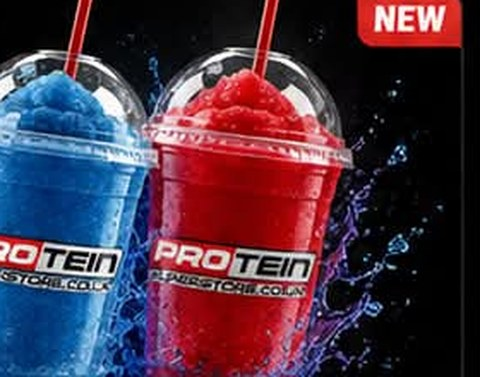
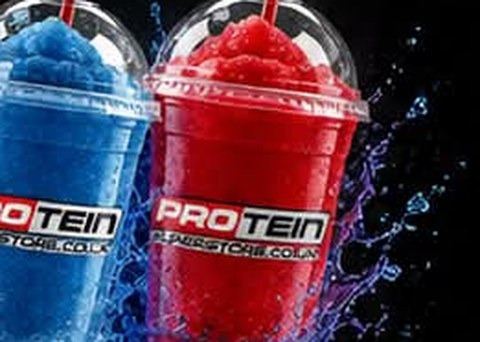
fix: page container sized itself to its content, not the screen
The right edge was clipped and pinch-to-zoom did nothing because
.lp-shell-body was 387px wide inside a 375px phone - and the same 387px at
every screen size, which was the clue.

Cause: I centred it with margin:0 auto. An auto margin on a flex item's cross
axis switches OFF the default stretch, so instead of matching the screen it
sized itself to its content - and the widest content is the horizontally
scrolling product rail. width:100% gives it a definite size again; min-width:0
stops the rail imposing a content-based minimum on it or on .lp-shell-main.

Also fixed, all found by rendering the page rather than reading the CSS:
- the bug report button sat on top of the ACCOUNT tab. Lifted above the nav.
- the promo drew a NEW badge over the one already in the artwork, and the
  crop clipped the mockup's own flash. Re-cropped, badge removed.
- a product photo that fails to load left a broken-image icon in the client's
  app. It now falls back to the type tile.
- long product names pushed cards to three lines. Clamped to two.

Adds layout.test.mjs: loads the real page in headless Chromium at 360, 375 and
768 with the backend stubbed, and measures. Nine checks per width - overflow,
container width, tile row, 44px controls, promo, rail, and the bug button.

It also caught a false pass in itself: the bug button check was querying a
class that does not exist, so it reported green while the button covered the
nav. A missing element now fails.
[…]

diff --git a/staff.html b/staff.html
@@ -5,17 +5,17 @@
 <meta name="viewport" content="width=device-width, initial-scale=1, viewport-fit=cover">
 <title>Protein Superstore — Staff</title>
 <meta name="theme-color" content="#E4181F">
-<link rel="stylesheet" href="./core/tokens.css?v=1.2.1">
-<link rel="stylesheet" href="./core/ui.css?v=1.2.1">
-<link rel="stylesheet" href="./features/bug-report/bug-report.css?v=1.2.1">
-<link rel="stylesheet" href="./css/psp.css?v=1.2.1">
-<link rel="stylesheet" href="./css/staff.css?v=1.2.1">
+<link rel="stylesheet" href="./core/tokens.css?v=1.3.0">
+<link rel="stylesheet" href="./core/ui.css?v=1.3.0">
+<link rel="stylesheet" href="./features/bug-report/bug-report.css?v=1.3.0">
+<link rel="stylesheet" href="./css/psp.css?v=1.3.0">
+<link rel="stylesheet" href="./css/staff.css?v=1.3.0">
 <link href="https://fonts.googleapis.com/css2?family=Archivo:ital,wght@0,400;0,600;0,700;1,900&display=swap" rel="stylesheet">
 </head>
 <body class="staff">
 
 <header class="st-top">
-  <img class="psp-logo" src="./assets/logo.jpg?v=1.2.1" alt="Protein Superstore">
+  <img class="psp-logo" src="./assets/logo.jpg?v=1.3.0" alt="Protein Superstore">
   <span class="st-store" id="stStore">Hartlepool</span>
   <button class="st-bell" id="stBell" aria-label="Turn on order alerts">🔔</button>
 </header>
@@ -41,13 +41,13 @@
 </main>
 
 <script type="module">
-import { configure, db } from './core/db.js?v=1.2.1';
-import { toast } from './core/toast.js?v=1.2.1';
-import { BugReport } from './features/bug-report/bug-report.js?v=1.2.1';
-import { CONFIG } from './js/config.js?v=1.2.1';
-import { Loyalty } from './features/loyalty/loyalty.js?v=1.2.1';
+import { configure, db } from './core/db.js?v=1.3.0';
+import { toast } from './core/toast.js?v=1.3.0';
+import { BugReport } from './features/bug-report/bug-report.js?v=1.3.0';
+import { CONFIG } from './js/config.js?v=1.3.0';
+import { Loyalty } from './features/loyalty/loyalty.js?v=1.3.0';
 import { work, minutesWaiting, newSince, summarise, readyPatch, collectedPatch,
-         forStaff, isUnpaid, amountDue, pointsOnCollection } from './js/staff.js?v=1.2.1';
+         forStaff, isUnpaid, amountDue, pointsOnCollection } from './js/staff.js?v=1.3.0';
 
 const loyalty = new Loyalty({ mount: document.createElement('div'),
   venue: CONFIG.venue, brandName: CONFIG.brandName });

diff --git a/index.html b/index.html
@@ -10,19 +10,19 @@
 <link rel="apple-touch-icon" href="./icon-192.png">
 
 <!-- Launchpad modules: tokens first, then each feature's own stylesheet -->
-<link rel="stylesheet" href="./core/tokens.css?v=1.2.1">
-<link rel="stylesheet" href="./core/ui.css?v=1.2.1">
-<link rel="stylesheet" href="./features/shell/shell.css?v=1.2.1">
-<link rel="stylesheet" href="./features/menu/menu.css?v=1.2.1">
-<link rel="stylesheet" href="./features/cart/cart.css?v=1.2.1">
-<link rel="stylesheet" href="./features/loyalty/loyalty.css?v=1.2.1">
-<link rel="stylesheet" href="./features/payment/payment.css?v=1.2.1">
-<link rel="stylesheet" href="./features/customer-capture/customer-capture.css?v=1.2.1">
-<link rel="stylesheet" href="./features/order-ready/order-ready.css?v=1.2.1">
-<link rel="stylesheet" href="./features/bug-report/bug-report.css?v=1.2.1">
+<link rel="stylesheet" href="./core/tokens.css?v=1.3.0">
+<link rel="stylesheet" href="./core/ui.css?v=1.3.0">
+<link rel="stylesheet" href="./features/shell/shell.css?v=1.3.0">
+<link rel="stylesheet" href="./features/menu/menu.css?v=1.3.0">
+<link rel="stylesheet" href="./features/cart/cart.css?v=1.3.0">
+<link rel="stylesheet" href="./features/loyalty/loyalty.css?v=1.3.0">
+<link rel="stylesheet" href="./features/payment/payment.css?v=1.3.0">
+<link rel="stylesheet" href="./features/customer-capture/customer-capture.css?v=1.3.0">
+<link rel="stylesheet" href="./features/order-ready/order-ready.css?v=1.3.0">
+<link rel="stylesheet" href="./features/bug-report/bug-report.css?v=1.3.0">
 <!-- Client skin: overrides --brand only, per the build standard -->
-<link rel="stylesheet" href="./css/psp.css?v=1.2.1">
-<link rel="stylesheet" href="./css/psp-screens.css?v=1.2.1">
+<link rel="stylesheet" href="./css/psp.css?v=1.3.0">
+<link rel="stylesheet" href="./css/psp-screens.css?v=1.3.0">
 
 <link rel="preconnect" href="https://fonts.googleapis.com">
 <link rel="preconnect" href="https://fonts.gstatic.com" crossorigin>
@@ -37,6 +37,6 @@
 
 <div id="app" hidden></div>
 
-<script type="module" src="./js/app.js?v=1.2.1"></script>
+<script type="module" src="./js/app.js?v=1.3.0"></script>
 </body>
 </html>

diff --git a/css/psp.css b/css/psp.css
@@ -61,7 +61,20 @@ input,select,textarea{ font-size:16px; font-family:var(--font-body); }
 .lp-shell-bi{ color:var(--text-2); }
 .lp-shell-bi.on,.lp-shell-ni.on{ color:var(--brand); }
 .lp-shell-bi-label{ font-size:11px; letter-spacing:.5px; text-transform:uppercase; }
-.lp-shell-body{ padding:14px; max-width:900px; margin:0 auto; }
+/* This container is a flex item, and I centred it with `margin:0 auto`.
+   An auto margin on the cross axis switches OFF the default stretch, so
+   instead of matching the screen the element sized itself to its content —
+   and the widest content is the horizontally-scrolling product rail. It came
+   out 387px wide on a 375px phone, at every screen size, which is why the
+   right edge was clipped and pinch-to-zoom did nothing.
+
+   `width:100%` gives it a definite size again; the max-width still centres it
+   on a desktop. `min-width:0` stops the same rail imposing a content-based
+   minimum. */
+.lp-shell-body{
+  padding:14px; width:100%; max-width:900px; margin:0 auto; min-width:0;
+}
+.lp-shell-main{ min-width:0; }
 
 /* ---------- shared type ---------- */
 .psp-h2{
@@ -93,7 +106,16 @@ img{ max-width:100%; }
 /* ---------- module chrome in brand colours ---------- */
 .lp-ly-card,.lp-ly-look{ background:var(--surface); border:1px solid var(--border); }
 .lp-pay-demo{ border-color:var(--brand); }
-.lp-bug-btn{ background:var(--brand); }
+/* The module parks this bottom-right, which on a phone lands squarely on the
+   ACCOUNT tab. Lift it above the nav. */
+/* The module parks this bottom-right, which on a phone lands squarely on the
+   ACCOUNT tab. Lift it clear of the bottom nav. */
+.lp-bug-fab{ bottom:calc(84px + env(safe-area-inset-bottom)) !important; }
+@media (min-width:768px){
+  .lp-bug-fab{ bottom:20px !important; }
+}
+/* The staff view has no bottom nav, so it can sit where the module puts it. */
+body.staff .lp-bug-fab{ bottom:20px !important; }
 
 @media (min-width:768px){
   .lp-shell-body{ padding:24px; }

diff --git a/css/psp-screens.css b/css/psp-screens.css
@@ -62,6 +62,7 @@
 .psp-rowhead{ display:flex; align-items:center; justify-content:space-between; }
 .psp-rail{
   display:flex; align-items:stretch; gap:10px; overflow-x:auto; padding-bottom:6px;
+  min-width:0; max-width:100%;
   scroll-snap-type:x mandatory; -webkit-overflow-scrolling:touch;
 }
 .psp-railcard{ flex:0 0 46%; min-width:0; scroll-snap-align:start; }
@@ -87,9 +88,15 @@
   border-left:3px solid var(--brand);
 }
 .psp-typetile-brand{ font-size:9px; font-weight:800; letter-spacing:1.4px; color:var(--brand); }
-.psp-typetile-name{ font-family:var(--font-head); font-style:italic; font-weight:900;
-  font-size:13px; line-height:1.05; text-transform:uppercase; }
-.psp-card-name{ font-size:13px; font-weight:600; line-height:1.25; min-height:2.5em; overflow-wrap:anywhere; }
+.psp-typetile-name{
+  font-family:var(--font-head); font-style:italic; font-weight:900;
+  font-size:12px; line-height:1.1; text-transform:uppercase; overflow:hidden;
+  display:-webkit-box; -webkit-line-clamp:3; -webkit-box-orient:vertical;
+}
+.psp-card-name{
+  font-size:13px; font-weight:600; line-height:1.25; height:2.5em; overflow:hidden;
+  display:-webkit-box; -webkit-line-clamp:2; -webkit-box-orient:vertical; overflow-wrap:anywhere;
+}
 .psp-card-price{ font-weight:900; font-size:15px; margin-top:4px; padding-right:36px; }
 .psp-card-price span{ font-size:10px; color:var(--text-2); font-weight:600; margin-left:4px; }
 .psp-card-add{
@@ -98,7 +105,7 @@
 }
 
 /* ---------- shop chips ---------- */
-.psp-chiprow{ display:flex; gap:8px; overflow-x:auto; padding-bottom:10px; }
+.psp-chiprow{ display:flex; gap:8px; overflow-x:auto; padding-bottom:10px; min-width:0; max-width:100%; }
 .psp-chip{
   flex:0 0 auto; min-height:var(--tap); padding:0 14px; border-radius:999px; cursor:pointer;
   background:var(--surface); border:1px solid var(--border); color:var(--text-2); font-size:13px; font-weight:700;

diff --git a/js/state.js b/js/state.js
@@ -72,12 +72,12 @@ export function ago(iso) {
 
 export function slushPhoto(flavour, cls = '') {
   const filter = CONFIG.slushFilters[flavour] || 'none';
-  return `<img class="psp-slush ${cls}" src="./assets/slush-hero.jpg?v=1.2.1" alt="${esc(flavour || 'Protein slush')}"
+  return `<img class="psp-slush ${cls}" src="./assets/slush-hero.jpg?v=1.3.0" alt="${esc(flavour || 'Protein slush')}"
                style="filter:${filter}" loading="lazy">`;
 }
 
 export function slushPair() {
-  return `<img class="psp-slushpair" src="./assets/slush-pair.jpg?v=1.2.1"
+  return `<img class="psp-slushpair" src="./assets/slush-pair.jpg?v=1.3.0"
                alt="Protein slush, blue raspberry and cherry" loading="lazy">`;
 }
 
@@ -85,14 +85,18 @@ export function slushPair() {
 export function productImage(item) {
   const url = CONFIG.productImages[item.name];
   if (url) {
-    return `<img class="psp-photo" src="${esc(url)}" alt="${esc(item.name)}" loading="lazy">`;
+    /* If the client's CDN blocks the request or the URL rots, swap in the
+       type tile rather than showing a broken-image icon. */
+    return `<img class="psp-photo" src="${esc(url)}" alt="${esc(item.name)}" loading="lazy"
+      onerror="this.outerHTML=this.dataset.fallback"
+      data-fallback="${esc(typeTile(item.name))}">`;
   }
   return typeTile(item.name);
 }
 
 /* Brand and product name set on black with the house slash. Deliberately
    typographic — it reads as a design choice, not a bad illustration. */
-function typeTile(name) {
+export function typeTile(name) {
   const parts = String(name).split(' ');
   const brand = /^5%/.test(name) ? '5% NUTRITION'
               : /sneak/i.test(name) ? 'SNEAK'

diff --git a/sw.js b/sw.js
@@ -26,24 +26,24 @@
 
 const CONFIG = {
   /* Bump this on every deploy. It's what triggers the update. */
-  version: 'v1.2.1',
+  version: 'v1.3.0',
   appName: 'protein-superstore',
 
   /* Cached on install — the app must open with these alone. */
   shell: [
     './',
     './index.html',
-    './css/psp.css?v=1.2.1',
-    './css/staff.css?v=1.2.1',
-    './css/psp-screens.css?v=1.2.1',
-    './core/tokens.css?v=1.2.1',
-    './core/ui.css?v=1.2.1',
+    './css/psp.css?v=1.3.0',
+    './css/staff.css?v=1.3.0',
+    './css/psp-screens.css?v=1.3.0',
+    './core/tokens.css?v=1.3.0',
+    './core/ui.css?v=1.3.0',
     './icon-192.png',
     './icon-512.png',
-    './assets/logo.jpg?v=1.2.1',
-    './assets/hero.jpg?v=1.2.1',
-    './assets/slush-hero.jpg?v=1.2.1',
-    './assets/slush-pair.jpg?v=1.2.1'
+    './assets/logo.jpg?v=1.3.0',
+    './assets/hero.jpg?v=1.3.0',
+    './assets/slush-hero.jpg?v=1.3.0',
+    './assets/slush-pair.jpg?v=1.3.0'
   ],
 
   /* Network first, cache as a fallback. */

diff --git a/js/home.js b/js/home.js
@@ -37,7 +37,7 @@ export async function homeHtml() {
     </div>
 
     <section class="psp-hero" data-psp="go" data-to="shop">
-      <img class="psp-hero-img" src="./assets/hero.jpg?v=1.2.1" alt="Fuel your results">
+      <img class="psp-hero-img" src="./assets/hero.jpg?v=1.3.0" alt="Fuel your results">
       <button class="psp-btn psp-hero-btn" data-psp="go" data-to="shop">SHOP NOW</button>
     </section>
 
@@ -50,7 +50,6 @@ export async function homeHtml() {
 
     ${slush ? `
     <section class="psp-promo" data-psp="item" data-id="${esc(slush.id)}">
-      <span class="psp-promo-flag">NEW</span>
       <div class="psp-promo-copy">
         <h2 class="psp-promo-h">PROTEIN<br><em>SLUSH</em></h2>
         <p>Refreshing. Icy. Packed with protein.</p>

diff --git a/js/app.js b/js/app.js
@@ -138,7 +138,7 @@ function brandTheHeader() {
   if (!top || top.querySelector('.psp-logo')) return;
   const el = document.createElement('div');
   el.className = 'psp-topbrand';
-  el.innerHTML = '<img class="psp-logo" src="./assets/logo.jpg?v=1.2.1" alt="Protein Superstore">';
+  el.innerHTML = '<img class="psp-logo" src="./assets/logo.jpg?v=1.3.0" alt="Protein Superstore">';
   top.appendChild(el);
 }
 

diff --git a/js/config.js b/js/config.js
@@ -13,7 +13,7 @@ export const CONFIG = {
   liveStores: ['hartlepool'],
   brandName: 'Protein Superstore',
   clientRef: 'psp',
-  version: 'v1.2.1',
+  version: 'v1.3.0',
 
   sb: {
     url: 'https://coiwwbroycaznkmhevde.supabase.co',
